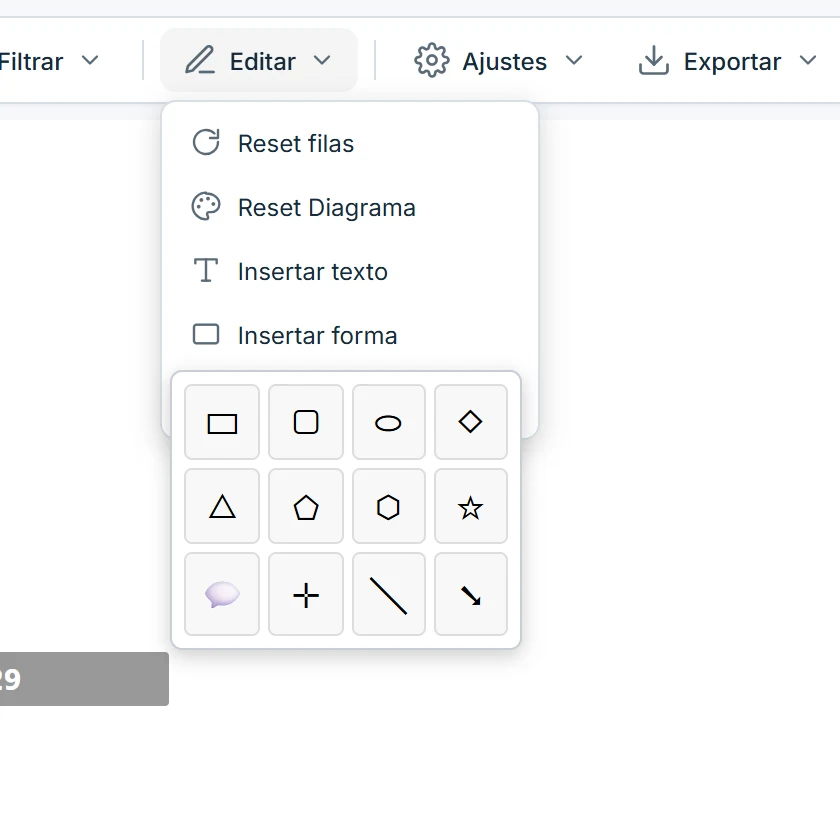
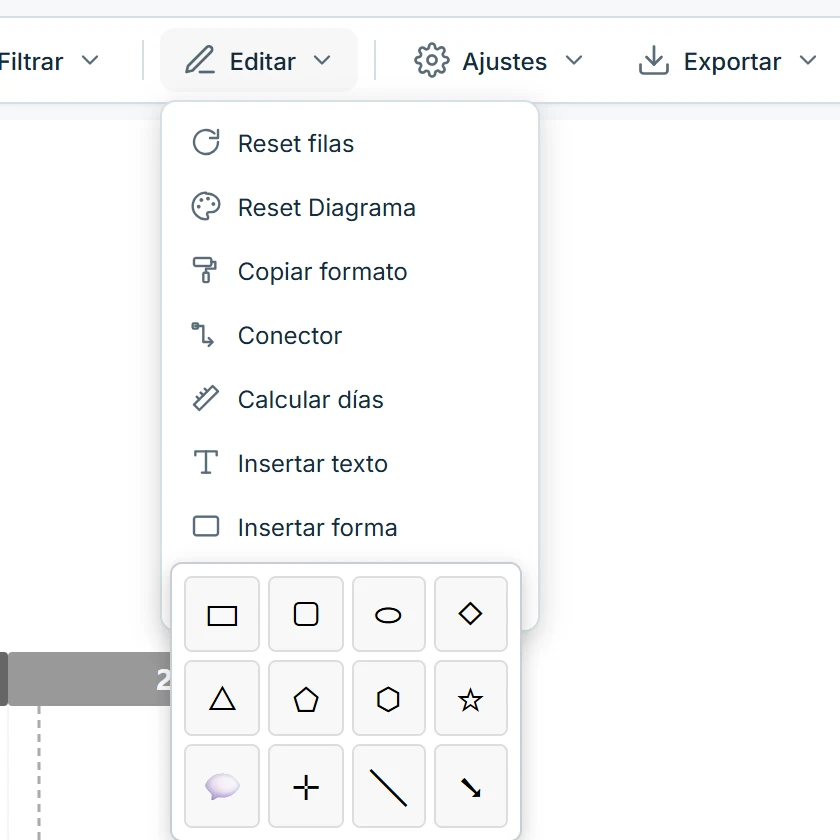
Manual de usuario actualizado: paneles, lados del borde, copiar formato en agrupadores, fila vacía, Calcular días, Ver demo; figuras regeneradas

diff --git a/docs/manual/index.html b/docs/manual/index.html
@@ -101,7 +101,8 @@
 
 <h2 id="primeros-pasos--abrir">Abrir OpenGanttLab</h2>
 <p>Abra el archivo <code>OpenGanttLab 3.1.html</code> en el navegador. Aparece una pantalla de bienvenida con los datos del autor y la licencia.</p>
-<figure class="fig" id="figura-03"><div class="imgbox"><img src="images/screenshots/fig-03-bienvenida.webp" width="640" height="600" alt="Pantalla de bienvenida" loading="lazy" decoding="async"></div><figcaption><span class="fn">Figura 03 — Pantalla de bienvenida</span><span class="fd">La primera pantalla al abrir la aplicación.</span><div class="observe"><b>Qué observar</b><ul><li>Pulse «Iniciar» para entrar.</li><li>Si abre un archivo compartido que ya trae datos, esta pantalla no aparece.</li></ul></div></figcaption></figure>
+<p>Si solo quiere explorar, pulse <span class="ui">Ver demo</span>: carga un cronograma de ejemplo con datos ficticios (una planta industrial, escenario «Proyecto A») para probar el Gantt, la Línea de Tiempo y el resto de las herramientas sin tener un archivo a mano. Si ya hay datos cargados, pide confirmación antes de reemplazarlos.</p>
+<figure class="fig" id="figura-03"><div class="imgbox"><img src="images/screenshots/fig-03-bienvenida.webp" width="640" height="600" alt="Pantalla de bienvenida" loading="lazy" decoding="async"></div><figcaption><span class="fn">Figura 03 — Pantalla de bienvenida</span><span class="fd">La primera pantalla al abrir la aplicación.</span><div class="observe"><b>Qué observar</b><ul><li>Pulse «Iniciar» para entrar o «Ver demo» para cargar un cronograma de ejemplo.</li><li>Si abre un archivo compartido que ya trae datos, esta pantalla no aparece.</li></ul></div></figcaption></figure>
 
 <h2 id="primeros-pasos--flujo">El flujo de trabajo</h2>
 <p>Casi todo el trabajo sigue el mismo recorrido de cinco etapas. Puede repetir cualquiera de ellas: al corregir un dato, las vistas se actualizan.</p>
@@ -300,7 +301,7 @@
 <figure class="fig" id="figura-22"><div class="imgbox"><img src="images/annotated/fig-22-tabla-datos.webp" width="1188" height="520" alt="Tabla de Datos" loading="lazy" decoding="async"></div><figcaption><span class="fn">Figura 22 — Tabla de Datos</span><span class="fd">La barra y las columnas de la Tabla de Datos.</span><ol class="legend"><li>Restaurar datos originales del XML, Deshacer y Rehacer</li><li>Cargar archivo y más opciones de carga</li><li>Descargar (Planilla, XLSX y XML modificado)</li><li>Agregar fila</li><li>Filtro por columna</li><li>Guardar sesión y Compartir</li><li>Pestañas: Tabla de Datos, Gestión de escenarios y Gestión de XML</li><li>Reprogramar sucesoras (interruptor)</li><li>Segmentador de escenario</li><li>Encabezados con botón de filtro</li></ol><div class="observe"><b>Qué observar</b><ul><li>Con un Excel vinculado aparecen además «Actualizar» y «Guardar cambios».</li><li>La columna «Duración (d)» está a la derecha de End R/P.</li></ul></div></figcaption></figure>
 <ul>
 <li><b>Editar:</b> haga clic en una celda y escriba. El Gantt y la Línea de Tiempo se actualizan al salir de la tabla, no en cada tecla.</li>
-<li><b>Agregar o eliminar filas:</b> <span class="ui">Agregar fila</span> al final; el ícono de papelera al final de cada fila la elimina.</li>
+<li><b>Agregar o eliminar filas:</b> <span class="ui">Agregar fila</span> al final; el ícono de papelera al final de cada fila la elimina. Con <b>clic derecho</b> sobre una fila, <span class="ui">Insertar fila vacía encima</span> crea una fila nueva justo antes de ella.</li>
 <li><b>Deshacer, rehacer y restaurar:</b> <span class="ui">Restaurar</span> vuelve a los datos originales del XML y descarta los cambios manuales (se puede deshacer).</li>
 <li><b>Ancho de columna:</b> arrastre el borde derecho del encabezado.</li>
 <li><b>Tablas grandes:</b> desde 250 filas solo se dibujan las visibles, así que sigue fluida con miles de tareas.</li>
@@ -470,9 +471,11 @@
 <li><b>Secciones plegables</b> (Texto, Fondo, Borde, Fechas, Dependencias…): cada una con su título y una flecha para abrirla o cerrarla.</li>
 <li><b>Filas «etiqueta — íconos de acción»:</b> la etiqueta a la izquierda y, a su lado, los controles como íconos. El tamaño de la letra y el grosor son campos numéricos con <b>flechas arriba y abajo</b>; la alineación y la posición del texto, botones de ícono (el seleccionado solo cambia de color); la trama y el estilo del borde o de la línea, listas desplegables con muestras; y el color, un recuadro con un ícono de restablecer. Donde conviene, dos controles comparten fila: <b>Color y Trama</b> en Fondo, <b>Color y Estilo</b> en Borde.</li>
 <li><b>Dos tamaños de texto:</b> los títulos de sección miden 12 px y todo lo demás (etiquetas de acción, subsecciones y controles) 10 px.</li>
+<li><b>Los demás paneles siguen el mismo esquema:</b> Hito y Evento (Texto, Fondo, Borde, <b>Línea</b>, Fechas y Dependencias, con las opciones propias del hito —Forma, Texto adicional, Ubicación y Distancia al eje— al final), Año, Forma, Cuadro de texto y Medida de tiempo. En todos, <b>Borde</b> pone primero <i>Color + Estilo</i> y debajo el <i>Grosor</i>, y el botón <b>Eliminar</b> es solo un ícono de papelera.</li>
+<li><b>Siempre visibles:</b> cada panel se reubica solo para no quedar cortado por el borde de la ventana; su alto se ajusta a su contenido. Elegir un color en el selector no cierra el panel.</li>
 <li><b>Texto:</b> el nombre a mostrar no se ve mientras no se pulsa el <b>lápiz</b> de la sección; al activarlo aparece el cuadro para editarlo. Debajo, <b>Fuente</b> (color, tamaño y K S N), <b>Alinear</b>, <b>Posición</b> y el interruptor <b>Texto completo</b>.</li>
 </ul>
-<figure class="fig" id="figura-42"><div class="imgbox"><img src="images/annotated/fig-42-ldt-panel-edicion.webp" width="751" height="623" alt="Panel de Tarea" loading="lazy" decoding="async"></div><figcaption><span class="fn">Figura 42 — Panel de Tarea</span><span class="fd">Todos los cambios del panel son visuales: nunca modifican la Tabla de Datos.</span><ol class="legend"><li>Barra seleccionada (doble clic)</li><li>Panel de Tarea</li></ol><div class="observe"><b>Qué observar</b><ul><li>Texto: nombre, color, tamaño, negrita, alineación y posición.</li><li>Fondo: color de la barra y trama.</li><li>Fechas: mostrar comienzo y fin, alinear y posición.</li><li>Posición: capa (arriba/abajo).</li></ul></div></figcaption></figure>
+<figure class="fig" id="figura-42"><div class="imgbox"><img src="images/annotated/fig-42-ldt-panel-edicion.webp" width="751" height="622" alt="Panel de Tarea" loading="lazy" decoding="async"></div><figcaption><span class="fn">Figura 42 — Panel de Tarea</span><span class="fd">Todos los cambios del panel son visuales: nunca modifican la Tabla de Datos.</span><ol class="legend"><li>Barra seleccionada (doble clic)</li><li>Panel de Tarea</li></ol><div class="observe"><b>Qué observar</b><ul><li>Texto: nombre, color, tamaño, negrita, alineación y posición.</li><li>Fondo: color de la barra y trama.</li><li>Fechas: mostrar comienzo y fin, alinear y posición.</li><li>Posición: capa (arriba/abajo).</li></ul></div></figcaption></figure>
 <div class="callout warn" role="note"><svg class="ic" viewBox="0 0 24 24" aria-hidden="true"><path d="M10.3 3.9 1.8 18a2 2 0 0 0 1.7 3h17a2 2 0 0 0 1.7-3L13.7 3.9a2 2 0 0 0-3.4 0z"/><path d="M12 9v4"/><path d="M12 17h.01"/></svg><div class="cb"><div class="ct">Lo visual no cambia los datos</div><p>Editar el texto o el color en la Línea de Tiempo solo afecta la presentación. El dato real de la tabla, del Gantt, del Excel y del XML no se toca. La única excepción es la sección <span class="ui">Dependencias</span> descrita abajo.</p></div></div>
 
 <h3 id="vistas--panel-dependencias">Dependencias desde el panel</h3>
@@ -486,6 +489,9 @@
 
 <h3 id="vistas--ocultar-precedencia">Ocultar una línea de precedencia</h3>
 <p>Con <span class="ui">Dependencias</span> encendido en la Línea de Tiempo, haga clic sobre una flecha: se resalta con un halo azul. Pulse <kbd>Delete</kbd> (o <kbd>Backspace</kbd>) para ocultarla; el resto de flechas no cambia. Para volver a verla, abra <span class="ui">Tareas ocultas (N)</span>, sección <b>Líneas de precedencia</b>, y restáurela con el ojo, o use <span class="ui">Restaurar todas</span>. Es solo visual: los vínculos siguen en los datos, el Gantt, el Excel y el XML, y el halo de selección no sale en los exportes. Con una barra seleccionada solo se dibuja su cadena azul y las demás flechas no se pueden seleccionar.</p>
+
+<h3 id="vistas--insertar-fila">Insertar una fila vacía encima</h3>
+<p>Con <b>clic derecho sobre una barra</b> (o un hito dentro de una banda) aparece <span class="ui">Insertar fila vacía encima</span>: la barra elegida y todas las de abajo bajan una fila y queda un espacio en blanco. Las barras desplazadas quedan fijadas en su nueva fila, como si las hubiera arrastrado; <kbd>Ctrl</kbd>+<kbd>Z</kbd> lo deshace y <span class="ui">Reset filas</span> del menú <span class="ui">Editar</span> devuelve el orden automático. En la Tabla de Datos, el clic derecho sobre una fila ofrece la misma opción y crea una fila nueva sin datos, con el mismo escenario.</p>
 
 <h2 id="vistas--ejecutivo">Ejecutivo: ocultar tareas</h2>
 <ol class="steps">
@@ -527,12 +533,12 @@
 </table></div>
 <p>Las secciones propias de cada elemento no aplican a los demás: la trama y las fechas de las tareas; la forma, el texto adicional, la línea y la distancia al eje de los hitos; la escala, el ancho y la unión en tramos de los años; el campo por el que agrupa, la posición y el espacio del agrupador horizontal; los campos y las entradas visibles de la leyenda.</p>
 <ul>
-<li><b>Borde:</b> grosor de 0 a 8 px (0 = sin borde), estilo (continua, punteada, rayada o mixta), color y <b>Restablecer</b>. En las bandas verticales, además, la <b>forma</b>: caja completa o solo línea inferior (para usarla como separador entre grupos).</li>
+<li><b>Borde:</b> <b>Lados</b> (todos, ninguno, o cualquier combinación de superior, derecho, inferior e izquierdo, como los bordes de una celda de Excel), grosor de 0 a 8 px (0 = sin borde), estilo (continua, punteada, rayada o mixta), color y <b>Restablecer</b> (vuelve a mostrar los cuatro lados). En las bandas verticales, además, la <b>forma</b>: caja completa o solo línea inferior (para usarla como separador entre grupos).</li>
 <li><b>Relleno:</b> en los agrupadores, «Sin relleno» o «Restablecer» devuelven el aspecto original.</li>
 <li><b>Alineación:</b> en las bandas verticales el nombre se pega abajo, al centro o arriba; en los demás, a la izquierda, al centro o a la derecha. El texto se abrevia si no cabe.</li>
 <li>Una barra con borde propio reemplaza al borde rojo de la ruta crítica. Cada banda tiene su propio formato y todo se guarda con la sesión.</li>
 </ul>
-<figure class="fig" id="figura-46"><div class="imgbox"><img src="images/screenshots/fig-46-agrupador-borde-menu.webp" width="321" height="519" alt="Menú de formato de un agrupador" loading="lazy" decoding="async"></div><figcaption><span class="fn">Figura 46 — Menú de formato de un agrupador</span><span class="fd">Clic derecho sobre la etiqueta de una banda.</span><div class="observe"><b>Qué observar</b><ul><li>Texto, Fuente, Relleno, Borde y Alineación, separados por divisores.</li><li>Forma: caja completa o solo línea inferior (bandas verticales).</li></ul></div></figcaption></figure>
+<figure class="fig" id="figura-46"><div class="imgbox"><img src="images/screenshots/fig-46-agrupador-borde-menu.webp" width="321" height="552" alt="Menú de formato de un agrupador" loading="lazy" decoding="async"></div><figcaption><span class="fn">Figura 46 — Menú de formato de un agrupador</span><span class="fd">Clic derecho sobre la etiqueta de una banda.</span><div class="observe"><b>Qué observar</b><ul><li>Texto, Fuente, Relleno, Borde y Alineación, separados por divisores.</li><li>Forma: caja completa o solo línea inferior (bandas verticales).</li></ul></div></figcaption></figure>
 
 <h2 id="vistas--agrupador-horizontal">Agrupador horizontal: subprocesos sobre los años</h2>
 <p>El <span class="ui">Agrupador horizontal</span> dibuja, encima de todo y bajo el título, un rectángulo por cada valor de la columna elegida. Cada rectángulo va del inicio de la primera tarea de ese valor al fin de la última, con el nombre centrado. Ocupa <b>una sola fila</b>: donde las fechas de dos valores se superponen, ese tramo común se pinta con la <b>mezcla de los colores</b> de ambos, y cada nombre se coloca en su tramo sin superposición (se abrevia si no cabe). Está pensado para mostrar las fases o subprocesos (por ejemplo «Subproceso B», «Subproceso C») sobre el tiempo. Su interruptor está junto al del Agrupador vertical en <span class="ui">Capas</span> → <b>Modo de vista</b>, y se usan a la vez.</p>
@@ -540,7 +546,7 @@
 <li><b>Agrupar por:</b> Categoría 1 (por defecto), Categoría 2 o Escenario, en el botón de opciones que aparece junto al interruptor.</li>
 <li><b>Posición:</b> <i>Encima de los hitos</i> (por defecto) o <i>Sobre la franja de años</i>, entre los hitos y los años: los hitos quedan arriba y sus líneas punteadas atraviesan las bandas hasta el eje.</li>
 <li><b>Color:</b> el selector de las opciones pinta todas las bandas; un <b>doble clic</b> sobre un rectángulo cambia solo el color de esa banda (el texto pasa a blanco con colores oscuros).</li>
-<li><b>Borde:</b> clic derecho sobre un rectángulo para dar grosor, estilo y color al contorno.</li>
+<li><b>Borde:</b> clic derecho sobre un rectángulo para elegir qué lados se muestran y dar grosor, estilo y color al contorno.</li>
 <li><b>Hitos por encima del agrupador:</b> con el agrupador encima de los hitos, un hito se puede arrastrar hacia arriba con el mouse (o subir con «Distancia al eje») y <b>pasa por encima de las bandas</b> sin agrandar el área; el área solo crece cuando llega al borde superior.</li>
 <li><b>Espacio hasta los años:</b> el espacio en blanco entre las bandas y la franja de años se ajusta solo (se reduce si no hay hitos encima del eje; en «Sobre la franja de años» queda en 6 px) y también a mano: arrastre el borde inferior de las bandas, o escriba los píxeles en el campo «Espacio» de las opciones. Se pueden pegar casi a los años (0 px). El botón «Auto» o un doble clic sobre el borde vuelven al automático.</li>
 </ul>
@@ -552,7 +558,7 @@
 
 <h2 id="vistas--tramos-anos">Franja de años: tramos</h2>
 <p>Un doble clic sobre un año abre su menú. Con <b>Unir hasta</b> se funden ese año y los siguientes en una sola banda de la franja (por ejemplo «2030 - 2033»), que conserva el color y la fuente del primer año. El campo <b>Texto</b> reemplaza la etiqueta. Para separar de nuevo, elija «(sin unir)». Los tramos se guardan con la sesión y con Compartir.</p>
-<figure class="fig" id="figura-50"><div class="imgbox"><img src="images/screenshots/fig-50-ldt-tramos-anos.webp" width="1025" height="822" alt="Tramo en la franja de años" loading="lazy" decoding="async"></div><figcaption><span class="fn">Figura 50 — Tramo en la franja de años</span><span class="fd">Doble clic sobre el primer año del tramo.</span><div class="observe"><b>Qué observar</b><ul><li>Los años 2027 y 2028 unidos en una sola banda.</li><li>El menú del año: Unir hasta, Texto, color, fuente, escala y ancho.</li></ul></div></figcaption></figure>
+<figure class="fig" id="figura-50"><div class="imgbox"><img src="images/screenshots/fig-50-ldt-tramos-anos.webp" width="1025" height="747" alt="Tramo en la franja de años" loading="lazy" decoding="async"></div><figcaption><span class="fn">Figura 50 — Tramo en la franja de años</span><span class="fd">Doble clic sobre el primer año del tramo.</span><div class="observe"><b>Qué observar</b><ul><li>Los años 2027 y 2028 unidos en una sola banda.</li><li>El menú del año: Unir hasta, Texto, color, fuente, escala y ancho.</li></ul></div></figcaption></figure>
 
 <h2 id="vistas--hitos-forma">Hitos: forma y texto adicional</h2>
 <p>El panel de edición de un hito (doble clic) incluye dos secciones:</p>
@@ -561,7 +567,7 @@
 <li><b>Forma:</b> rombo (por defecto), triángulo hacia abajo, triángulo hacia arriba, círculo, cuadrado o estrella. Solo cambia el dibujo; no cambia la fecha ni los datos.</li>
 <li><b>Texto adicional:</b> un texto libre de una o varias líneas bajo el hito (un monto, una reserva, una nota). Se <b>arrastra con el mouse</b> a cualquier posición y el botón «Restablecer posición» lo devuelve a su lugar. Es solo visual.</li>
 </ul>
-<figure class="fig" id="figura-51"><div class="imgbox"><img src="images/annotated/fig-51-hito-forma-texto.webp" width="456" height="1006" alt="Forma y texto adicional de un hito" loading="lazy" decoding="async"></div><figcaption><span class="fn">Figura 51 — Forma y texto adicional de un hito</span><span class="fd">Panel de edición de un hito.</span><ol class="legend"><li>Hito con forma de triángulo y su texto adicional</li><li>Panel de edición del hito</li></ol><div class="observe"><b>Qué observar</b><ul><li>Forma: rombo, triángulos, círculo, cuadrado o estrella.</li><li>Texto adicional: una o varias líneas que se arrastran con el mouse.</li></ul></div></figcaption></figure>
+<figure class="fig" id="figura-51"><div class="imgbox"><img src="images/annotated/fig-51-hito-forma-texto.webp" width="456" height="902" alt="Forma y texto adicional de un hito" loading="lazy" decoding="async"></div><figcaption><span class="fn">Figura 51 — Forma y texto adicional de un hito</span><span class="fd">Panel de edición de un hito.</span><ol class="legend"><li>Hito con forma de triángulo y su texto adicional</li><li>Panel de edición del hito</li></ol><div class="observe"><b>Qué observar</b><ul><li>Forma: rombo, triángulos, círculo, cuadrado o estrella.</li><li>Texto adicional: una o varias líneas que se arrastran con el mouse.</li></ul></div></figcaption></figure>
 
 <h2 id="vistas--dias-desplazados">Días desplazados entre escenarios en Vista Hitos</h2>
 <p>Con <span class="ui">Vista Hitos</span> y el Agrupador vertical por escenario, cada hito aparece en la banda de su escenario. El botón de opciones junto a <span class="ui">Vista Hitos</span> tiene la casilla <b>Días desplazados entre escenarios</b> (marcada por defecto): une con una línea punteada en escuadra el mismo hito de bandas consecutivas y escribe en el centro «+78 días» (rojo si el de abajo es posterior, verde si es anterior). El hito se empareja por Categoría 1, Categoría 2 y nombre; los hitos sin desplazamiento no llevan etiqueta. Con «Días transcurridos» activo, cada hito muestra «diast: N» arriba, la fecha bajo el rombo y el nombre a la derecha.</p>
@@ -576,31 +582,32 @@
 </ul>
 <figure class="fig" id="figura-53"><div class="imgbox"><img src="images/screenshots/fig-53-ldt-timeline-delta.webp" width="1069" height="501" alt="Timeline Delta" loading="lazy" decoding="async"></div><figcaption><span class="fn">Figura 53 — Timeline Delta</span><span class="fd">Hitos de dos escenarios comparados.</span><div class="observe"><b>Qué observar</b><ul><li>Selectores A y B con el color de cada escenario.</li><li>Una fila por hito con la flecha de desviación.</li><li>Columna Δ días a la derecha.</li></ul></div></figcaption></figure>
 
-<h2 id="vistas--impacto">Impacto: días de diferencia entre dos fechas</h2>
-<p>El botón <span class="ui">Impacto</span> (ícono de regla, a la derecha de los accesos rápidos de la barra) mide cuántos días separan dos barras u hitos y lo <b>dibuja</b> en el diagrama. Es la forma de calcular el efecto de una reprogramación entre dos escenarios.
+<h2 id="vistas--impacto">Calcular días: diferencia entre dos fechas</h2>
+<p><i>Antes llamada «Impacto».</i></p>
+<p>La opción <span class="ui">Calcular días</span> del menú <span class="ui">Editar</span> (ícono de regla) mide cuántos días separan dos barras u hitos y lo <b>dibuja</b> en el diagrama. Es la forma de calcular el efecto de una reprogramación entre dos escenarios.
 <ol class="steps">
-<li><b>Active Impacto</b>El cursor cambia y las barras dejan de abrir su panel de edición mientras la herramienta está activa.</li>
+<li><b>Active Calcular días</b>El cursor cambia y las barras dejan de abrir su panel de edición mientras la herramienta está activa.</li>
 <li><b>Haga clic en A y luego en B</b>Por ejemplo el mismo hito en el escenario original y en su copia. Quedan resaltados.</li>
 <li><b>Lea el resultado</b>Una tarjeta muestra las fechas de ambos y la diferencia en días calendario de fin y de inicio (B menos A): positivo si B es posterior. Use <span class="ui">Nueva medición</span> para elegir otro par, y <span class="ui">Cerrar</span> o <kbd>Esc</kbd> para salir.</li>
 <li><b>Elija las fechas y déjelo dibujado</b>La tarjeta pregunta <i>Dibujar entre [Comienzo/Fin] de A y [Comienzo/Fin] de B</i> (por defecto, fin con fin) y dibuja una <b>medida de tiempo</b> (ver abajo) con los días con signo. <span class="ui">Dejar en la lámina</span> la convierte en una medida permanente.</li>
 </ol>
-<figure class="fig" id="figura-54"><div class="imgbox"><img src="images/screenshots/fig-54-ldt-impacto.webp" width="1188" height="1236" alt="Impacto dibujado en la Línea de Tiempo" loading="lazy" decoding="async"></div><figcaption><span class="fn">Figura 54 — Impacto dibujado en la Línea de Tiempo</span><span class="fd">Medición entre dos barras.</span><div class="observe"><b>Qué observar</b><ul><li>Las dos barras elegidas, resaltadas.</li><li>Flecha doble con los días de diferencia, bajo la franja de años.</li><li>Tarjeta con las fechas, la diferencia y «Dejar en la lámina».</li></ul></div></figcaption></figure>
+<figure class="fig" id="figura-54"><div class="imgbox"><img src="images/screenshots/fig-54-ldt-impacto.webp" width="1188" height="1236" alt="Cálculo de días dibujado en la Línea de Tiempo" loading="lazy" decoding="async"></div><figcaption><span class="fn">Figura 54 — Cálculo de días dibujado en la Línea de Tiempo</span><span class="fd">Medición entre dos barras.</span><div class="observe"><b>Qué observar</b><ul><li>Las dos barras elegidas, resaltadas.</li><li>Flecha doble con los días de diferencia, bajo la franja de años.</li><li>Tarjeta con las fechas, la diferencia y «Dejar en la lámina».</li></ul></div></figcaption></figure>
 
 <h2 id="vistas--copiar-formato">Copiar formato</h2>
-<p>El botón <span class="ui">Copiar formato</span> (ícono de brocha, junto a Conector) toma el aspecto de un elemento y lo aplica a otros <b>del mismo tipo</b>: el formato de una tarea solo se aplica a tareas, el de un hito solo a hitos, el de un evento a eventos y el de un año a años.</p>
+<p>La opción <span class="ui">Copiar formato</span> del menú <span class="ui">Editar</span> (ícono de brocha) toma el aspecto de un elemento y lo aplica a otros <b>del mismo tipo</b>: el formato de una tarea solo se aplica a tareas, el de un hito solo a hitos, el de un evento a eventos, el de un año a años, el de una banda del <b>Agrupador horizontal</b> a otras bandas horizontales y el de una banda del <b>Agrupador vertical</b> a otras bandas verticales. Mientras la herramienta está activa, la opción y el botón <span class="ui">Editar</span> se ven resaltados.</p>
 <ol class="steps">
 <li><b>Elija el origen</b>Seleccione antes un elemento (un clic) y pulse el botón, o pulse el botón y haga clic en el elemento del que quiere copiar. Queda resaltado en verde.</li>
 <li><b>Aplique</b>Haga clic en cada elemento de destino: recibe el formato al instante. Si el destino es de otro tipo, la tarjeta lo avisa y no cambia nada. <span class="ui">Elegir otro origen</span> toma otro modelo.</li>
 <li><b>Salga</b><span class="ui">Cerrar</span> o <kbd>Esc</kbd>. <kbd>Ctrl</kbd>+<kbd>Z</kbd> deshace cada aplicación.</li>
 </ol>
 <ul>
-<li><b>Qué se copia:</b> colores, texto (tamaño, negrita, cursiva, subrayado, alineación), trama, borde, forma del hito, fechas visibles y línea del hito; en años, fondo, fuente y borde.</li>
+<li><b>Qué se copia:</b> colores, texto (tamaño, negrita, cursiva, subrayado, alineación), trama, borde, forma del hito, fechas visibles y línea del hito; en años, fondo, fuente y borde; en los agrupadores, texto, fuente, relleno y borde (incluidos los lados del borde), pero no el nombre de cada banda.</li>
 <li><b>Qué no se copia:</b> el nombre, el texto adicional, la posición o «Distancia al eje», la banda, ni las fechas: son propios de cada elemento.</li>
 </ul>
 <figure class="fig" id="figura-55"><div class="imgbox"><img src="images/screenshots/fig-55-ldt-copiar-formato.webp" width="1188" height="838" alt="Copiar formato" loading="lazy" decoding="async"></div><figcaption><span class="fn">Figura 55 — Copiar formato</span><span class="fd">Aplicar el formato de una tarea a otras tareas.</span><div class="observe"><b>Qué observar</b><ul><li>La barra de origen, resaltada en verde.</li><li>Tarjeta inferior con el origen y las instrucciones.</li></ul></div></figcaption></figure>
 
 <h2 id="vistas--conectores">Conectores y medidas de tiempo</h2>
-<p>El botón <span class="ui">Conector</span> (ícono de línea en escuadra, junto a Impacto) une dos barras, hitos o eventos <b>visibles</b>: haga clic en el origen y luego en el destino. La tarjeta inferior elige el tipo:</p>
+<p>La opción <span class="ui">Conector</span> del menú <span class="ui">Editar</span> (ícono de línea en escuadra) une dos barras, hitos o eventos <b>visibles</b>: haga clic en el origen y luego en el destino. La tarjeta inferior elige el tipo:</p>
 <div class="table-wrap"><table>
 <tr><th>Tipo</th><th>Qué dibuja</th></tr>
 <tr><td>Recta</td><td>Una línea directa entre los dos elementos.</td></tr>
@@ -617,7 +624,7 @@
 <li>Los conectores se guardan con la sesión y con Compartir; se ven en la exportación PNG/PDF/PPTX.</li>
 </ul>
 <figure class="fig" id="figura-58"><div class="imgbox"><img src="images/screenshots/fig-58-ldt-medida-tiempo.webp" width="1188" height="1046" alt="Medida de tiempo" loading="lazy" decoding="async"></div><figcaption><span class="fn">Figura 58 — Medida de tiempo</span><span class="fd">Del FID al arranque.</span><div class="observe"><b>Qué observar</b><ul><li>Flecha doble bajo la franja de años, con el texto centrado encima.</li><li>Guías punteadas hasta cada elemento.</li></ul></div></figcaption></figure>
-<figure class="fig" id="figura-59"><div class="imgbox"><img src="images/screenshots/fig-59-medida-menu.webp" width="256" height="411" alt="Menú de la medida de tiempo" loading="lazy" decoding="async"></div><figcaption><span class="fn">Figura 59 — Menú de la medida de tiempo</span><span class="fd">Doble clic o clic derecho sobre la flecha.</span><div class="observe"><b>Qué observar</b><ul><li>Texto, Formato, Desde/Hasta, Letra, Grosor, Estilo y Color.</li><li>Restablecer posición y Eliminar.</li></ul></div></figcaption></figure>
+<figure class="fig" id="figura-59"><div class="imgbox"><img src="images/screenshots/fig-59-medida-menu.webp" width="256" height="398" alt="Menú de la medida de tiempo" loading="lazy" decoding="async"></div><figcaption><span class="fn">Figura 59 — Menú de la medida de tiempo</span><span class="fd">Doble clic o clic derecho sobre la flecha.</span><div class="observe"><b>Qué observar</b><ul><li>Texto, Formato, Desde/Hasta, Letra, Grosor, Estilo y Color.</li><li>Restablecer posición y Eliminar.</li></ul></div></figcaption></figure>
 
 <h2 id="vistas--edicion">Edición: textos y formas libres</h2>
 <p>El menú <span class="ui">Editar</span> agrega elementos propios sobre el diagrama.</p>
@@ -627,11 +634,11 @@
 <li><b>Panel de forma:</b> relleno, borde y grosor; texto con tamaño, alineación y posición; y valores numéricos de ancho, alto, posición y giro.</li>
 <li><b>Imágenes e íconos:</b> <span class="ui">Insertar imagen o ícono</span> ofrece una biblioteca de 12 íconos (check, pozo, grupo de pozos, llama, alerta, información, cerrar, bandera, ubicación, dinero, tiempo y estrella) y «Subir una imagen…» (hasta 3 MB) desde el equipo. Se mueven, redimensionan y giran como cualquier forma.</li>
 </ul>
-<figure class="fig" id="figura-61"><div class="imgbox"><img src="images/screenshots/fig-61-iconos.webp" width="420" height="445" alt="Insertar imagen o ícono" loading="lazy" decoding="async"></div><figcaption><span class="fn">Figura 61 — Insertar imagen o ícono</span><span class="fd">Menú Editar → Insertar imagen o ícono.</span><div class="observe"><b>Qué observar</b><ul><li>Biblioteca de 12 íconos.</li><li>Subir una imagen desde el equipo.</li></ul></div></figcaption></figure>
+<figure class="fig" id="figura-61"><div class="imgbox"><img src="images/screenshots/fig-61-iconos.webp" width="420" height="541" alt="Insertar imagen o ícono" loading="lazy" decoding="async"></div><figcaption><span class="fn">Figura 61 — Insertar imagen o ícono</span><span class="fd">Menú Editar → Insertar imagen o ícono.</span><div class="observe"><b>Qué observar</b><ul><li>Biblioteca de 12 íconos.</li><li>Subir una imagen desde el equipo.</li></ul></div></figcaption></figure>
 
 <h3 id="vistas--leyenda-ldt">Configurar la leyenda</h3>
 <p>Con <span class="ui">Leyenda</span> activa, el botón de opciones de su interruptor permite elegir por qué campo mostrarla (Categoría 2, Categoría 1 o Escenario), el <b>estilo</b> (muestra de color con texto, o etiqueta de color con el texto dentro), el tamaño de letra, el recuadro de fondo, un <b>título</b> propio con tamaño y color, y qué entradas se ven. La leyenda se arrastra para moverla.</p>
-<figure class="fig" id="figura-62"><div class="imgbox"><img src="images/screenshots/fig-62-leyenda-config.webp" width="564" height="825" alt="Configuración de la leyenda" loading="lazy" decoding="async"></div><figcaption><span class="fn">Figura 62 — Configuración de la leyenda</span><span class="fd">Panel del botón de opciones de la Leyenda.</span><div class="observe"><b>Qué observar</b><ul><li>Campo, estilo, tamaño de letra, recuadro y título.</li><li>Entradas visibles.</li></ul></div></figcaption></figure>
+<figure class="fig" id="figura-62"><div class="imgbox"><img src="images/screenshots/fig-62-leyenda-config.webp" width="564" height="829" alt="Configuración de la leyenda" loading="lazy" decoding="async"></div><figcaption><span class="fn">Figura 62 — Configuración de la leyenda</span><span class="fd">Panel del botón de opciones de la Leyenda.</span><div class="observe"><b>Qué observar</b><ul><li>Campo, estilo, tamaño de letra, recuadro y título.</li><li>Entradas visibles.</li></ul></div></figcaption></figure>
 
 <h2 id="vistas--dependencias-ldt">Dependencias en la Línea de Tiempo</h2>
 <p>Active <span class="ui">Dependencias</span> en <span class="ui">Capas</span> → <span class="ui">Contenido</span>. Usa los mismos datos, tipos y colores que el Gantt.</p>
@@ -926,7 +933,7 @@
 
 <h2 id="avanzadas--hito-banda">Ubicación de un hito en el Agrupador vertical</h2>
 <p>En el panel de edición de un hito, la opción <b>Ubicación</b> permite colocarlo dentro de una banda del Agrupador (con un selector de banda). Requiere el <span class="ui">Agrupador</span> activo y no funciona en Ejecutivo. Por defecto, el hito sigue sobre el eje. Con <span class="ui">Vista Hitos</span> activa junto al Agrupador, todos los hitos van dentro de la banda de su grupo (o la que tengan asignada).</p>
-<figure class="fig" id="figura-84"><div class="imgbox"><img src="images/screenshots/fig-84-ldt-hito-ubicacion.webp" width="348" height="895" alt="Ubicación de un hito" loading="lazy" decoding="async"></div><figcaption><span class="fn">Figura 84 — Ubicación de un hito</span><span class="fd">Panel de edición de un hito con el Agrupador.</span><div class="observe"><b>Qué observar</b><ul><li>Sección «Ubicación» del panel de edición de un hito.</li><li>Requiere el Agrupador activo; no funciona en Ejecutivo.</li></ul></div></figcaption></figure>
+<figure class="fig" id="figura-84"><div class="imgbox"><img src="images/screenshots/fig-84-ldt-hito-ubicacion.webp" width="348" height="824" alt="Ubicación de un hito" loading="lazy" decoding="async"></div><figcaption><span class="fn">Figura 84 — Ubicación de un hito</span><span class="fd">Panel de edición de un hito con el Agrupador.</span><div class="observe"><b>Qué observar</b><ul><li>Sección «Ubicación» del panel de edición de un hito.</li><li>Requiere el Agrupador activo; no funciona en Ejecutivo.</li></ul></div></figcaption></figure>
 </article>
 
 <article data-slug="casos-de-uso" id="casos-de-uso" hidden aria-labelledby="casos-de-uso--h1"><p class="kicker">Capítulo 12 · Consultar</p><h1 id="casos-de-uso--h1">Casos de uso</h1><p class="lead">Tres situaciones típicas resueltas de principio a fin. Todas usan el proyecto de ejemplo del manual (una planta industrial ficticia).</p>

diff --git a/docs/manual/content/06-vistas.html b/docs/manual/content/06-vistas.html
@@ -58,6 +58,8 @@
 <li><b>Secciones plegables</b> (Texto, Fondo, Borde, Fechas, Dependencias…): cada una con su título y una flecha para abrirla o cerrarla.</li>
 <li><b>Filas «etiqueta — íconos de acción»:</b> la etiqueta a la izquierda y, a su lado, los controles como íconos. El tamaño de la letra y el grosor son campos numéricos con <b>flechas arriba y abajo</b>; la alineación y la posición del texto, botones de ícono (el seleccionado solo cambia de color); la trama y el estilo del borde o de la línea, listas desplegables con muestras; y el color, un recuadro con un ícono de restablecer. Donde conviene, dos controles comparten fila: <b>Color y Trama</b> en Fondo, <b>Color y Estilo</b> en Borde.</li>
 <li><b>Dos tamaños de texto:</b> los títulos de sección miden 12 px y todo lo demás (etiquetas de acción, subsecciones y controles) 10 px.</li>
+<li><b>Los demás paneles siguen el mismo esquema:</b> Hito y Evento (Texto, Fondo, Borde, <b>Línea</b>, Fechas y Dependencias, con las opciones propias del hito —Forma, Texto adicional, Ubicación y Distancia al eje— al final), Año, Forma, Cuadro de texto y Medida de tiempo. En todos, <b>Borde</b> pone primero <i>Color + Estilo</i> y debajo el <i>Grosor</i>, y el botón <b>Eliminar</b> es solo un ícono de papelera.</li>
+<li><b>Siempre visibles:</b> cada panel se reubica solo para no quedar cortado por el borde de la ventana; su alto se ajusta a su contenido. Elegir un color en el selector no cierra el panel.</li>
 <li><b>Texto:</b> el nombre a mostrar no se ve mientras no se pulsa el <b>lápiz</b> de la sección; al activarlo aparece el cuadro para editarlo. Debajo, <b>Fuente</b> (color, tamaño y K S N), <b>Alinear</b>, <b>Posición</b> y el interruptor <b>Texto completo</b>.</li>
 </ul>
 <fig slug="ldt-panel-edicion" t="Panel de Tarea" legend="Barra seleccionada (doble clic)|Panel de Tarea" observe="Texto: nombre, color, tamaño, negrita, alineación y posición.|Fondo: color de la barra y trama.|Fechas: mostrar comienzo y fin, alinear y posición.|Posición: capa (arriba/abajo).">Todos los cambios del panel son visuales: nunca modifican la Tabla de Datos.</fig>
@@ -76,6 +78,9 @@
 
 <h3 id="ocultar-precedencia">Ocultar una línea de precedencia</h3>
 <p>Con <ui>Dependencias</ui> encendido en la Línea de Tiempo, haga clic sobre una flecha: se resalta con un halo azul. Pulse <kbd>Delete</kbd> (o <kbd>Backspace</kbd>) para ocultarla; el resto de flechas no cambia. Para volver a verla, abra <ui>Tareas ocultas (N)</ui>, sección <b>Líneas de precedencia</b>, y restáurela con el ojo, o use <ui>Restaurar todas</ui>. Es solo visual: los vínculos siguen en los datos, el Gantt, el Excel y el XML, y el halo de selección no sale en los exportes. Con una barra seleccionada solo se dibuja su cadena azul y las demás flechas no se pueden seleccionar.</p>
+
+<h3 id="insertar-fila">Insertar una fila vacía encima</h3>
+<p>Con <b>clic derecho sobre una barra</b> (o un hito dentro de una banda) aparece <ui>Insertar fila vacía encima</ui>: la barra elegida y todas las de abajo bajan una fila y queda un espacio en blanco. Las barras desplazadas quedan fijadas en su nueva fila, como si las hubiera arrastrado; <kbd>Ctrl</kbd>+<kbd>Z</kbd> lo deshace y <ui>Reset filas</ui> del menú <ui>Editar</ui> devuelve el orden automático. En la Tabla de Datos, el clic derecho sobre una fila ofrece la misma opción y crea una fila nueva sin datos, con el mismo escenario.</p>
 
 <h2 id="ejecutivo">Ejecutivo: ocultar tareas</h2>
 <ol class="steps">
@@ -119,7 +124,7 @@
 </table>
 <p>Las secciones propias de cada elemento no aplican a los demás: la trama y las fechas de las tareas; la forma, el texto adicional, la línea y la distancia al eje de los hitos; la escala, el ancho y la unión en tramos de los años; el campo por el que agrupa, la posición y el espacio del agrupador horizontal; los campos y las entradas visibles de la leyenda.</p>
 <ul>
-<li><b>Borde:</b> grosor de 0 a 8 px (0 = sin borde), estilo (continua, punteada, rayada o mixta), color y <b>Restablecer</b>. En las bandas verticales, además, la <b>forma</b>: caja completa o solo línea inferior (para usarla como separador entre grupos).</li>
+<li><b>Borde:</b> <b>Lados</b> (todos, ninguno, o cualquier combinación de superior, derecho, inferior e izquierdo, como los bordes de una celda de Excel), grosor de 0 a 8 px (0 = sin borde), estilo (continua, punteada, rayada o mixta), color y <b>Restablecer</b> (vuelve a mostrar los cuatro lados). En las bandas verticales, además, la <b>forma</b>: caja completa o solo línea inferior (para usarla como separador entre grupos).</li>
 <li><b>Relleno:</b> en los agrupadores, «Sin relleno» o «Restablecer» devuelven el aspecto original.</li>
 <li><b>Alineación:</b> en las bandas verticales el nombre se pega abajo, al centro o arriba; en los demás, a la izquierda, al centro o a la derecha. El texto se abrevia si no cabe.</li>
 <li>Una barra con borde propio reemplaza al borde rojo de la ruta crítica. Cada banda tiene su propio formato y todo se guarda con la sesión.</li>
@@ -132,7 +137,7 @@
 <li><b>Agrupar por:</b> Categoría 1 (por defecto), Categoría 2 o Escenario, en el botón de opciones que aparece junto al interruptor.</li>
 <li><b>Posición:</b> <i>Encima de los hitos</i> (por defecto) o <i>Sobre la franja de años</i>, entre los hitos y los años: los hitos quedan arriba y sus líneas punteadas atraviesan las bandas hasta el eje.</li>
 <li><b>Color:</b> el selector de las opciones pinta todas las bandas; un <b>doble clic</b> sobre un rectángulo cambia solo el color de esa banda (el texto pasa a blanco con colores oscuros).</li>
-<li><b>Borde:</b> clic derecho sobre un rectángulo para dar grosor, estilo y color al contorno.</li>
+<li><b>Borde:</b> clic derecho sobre un rectángulo para elegir qué lados se muestran y dar grosor, estilo y color al contorno.</li>
 <li><b>Hitos por encima del agrupador:</b> con el agrupador encima de los hitos, un hito se puede arrastrar hacia arriba con el mouse (o subir con «Distancia al eje») y <b>pasa por encima de las bandas</b> sin agrandar el área; el área solo crece cuando llega al borde superior.</li>
 <li><b>Espacio hasta los años:</b> el espacio en blanco entre las bandas y la franja de años se ajusta solo (se reduce si no hay hitos encima del eje; en «Sobre la franja de años» queda en 6 px) y también a mano: arrastre el borde inferior de las bandas, o escriba los píxeles en el campo «Espacio» de las opciones. Se pueden pegar casi a los años (0 px). El botón «Auto» o un doble clic sobre el borde vuelven al automático.</li>
 </ul>
@@ -169,6 +174,7 @@
 <fig slug="ldt-timeline-delta" t="Timeline Delta" observe="Selectores A y B con el color de cada escenario.|Una fila por hito con la flecha de desviación.|Columna Δ días a la derecha.">Hitos de dos escenarios comparados.</fig>
 
 <h2 id="impacto">Calcular días: diferencia entre dos fechas</h2>
+<p><i>Antes llamada «Impacto».</i></p>
 <p>La opción <ui>Calcular días</ui> del menú <ui>Editar</ui> (ícono de regla) mide cuántos días separan dos barras u hitos y lo <b>dibuja</b> en el diagrama. Es la forma de calcular el efecto de una reprogramación entre dos escenarios.
 <ol class="steps">
 <li><b>Active Calcular días</b>El cursor cambia y las barras dejan de abrir su panel de edición mientras la herramienta está activa.</li>
@@ -179,14 +185,14 @@
 <fig slug="ldt-impacto" t="Cálculo de días dibujado en la Línea de Tiempo" observe="Las dos barras elegidas, resaltadas.|Flecha doble con los días de diferencia, bajo la franja de años.|Tarjeta con las fechas, la diferencia y «Dejar en la lámina».">Medición entre dos barras.</fig>
 
 <h2 id="copiar-formato">Copiar formato</h2>
-<p>El botón <ui>Copiar formato</ui> (ícono de brocha, junto a Conector) toma el aspecto de un elemento y lo aplica a otros <b>del mismo tipo</b>: el formato de una tarea solo se aplica a tareas, el de un hito solo a hitos, el de un evento a eventos y el de un año a años.</p>
+<p>La opción <ui>Copiar formato</ui> del menú <ui>Editar</ui> (ícono de brocha) toma el aspecto de un elemento y lo aplica a otros <b>del mismo tipo</b>: el formato de una tarea solo se aplica a tareas, el de un hito solo a hitos, el de un evento a eventos, el de un año a años, el de una banda del <b>Agrupador horizontal</b> a otras bandas horizontales y el de una banda del <b>Agrupador vertical</b> a otras bandas verticales. Mientras la herramienta está activa, la opción y el botón <ui>Editar</ui> se ven resaltados.</p>
 <ol class="steps">
 <li><b>Elija el origen</b>Seleccione antes un elemento (un clic) y pulse el botón, o pulse el botón y haga clic en el elemento del que quiere copiar. Queda resaltado en verde.</li>
 <li><b>Aplique</b>Haga clic en cada elemento de destino: recibe el formato al instante. Si el destino es de otro tipo, la tarjeta lo avisa y no cambia nada. <ui>Elegir otro origen</ui> toma otro modelo.</li>
 <li><b>Salga</b><ui>Cerrar</ui> o <kbd>Esc</kbd>. <kbd>Ctrl</kbd>+<kbd>Z</kbd> deshace cada aplicación.</li>
 </ol>
 <ul>
-<li><b>Qué se copia:</b> colores, texto (tamaño, negrita, cursiva, subrayado, alineación), trama, borde, forma del hito, fechas visibles y línea del hito; en años, fondo, fuente y borde.</li>
+<li><b>Qué se copia:</b> colores, texto (tamaño, negrita, cursiva, subrayado, alineación), trama, borde, forma del hito, fechas visibles y línea del hito; en años, fondo, fuente y borde; en los agrupadores, texto, fuente, relleno y borde (incluidos los lados del borde), pero no el nombre de cada banda.</li>
 <li><b>Qué no se copia:</b> el nombre, el texto adicional, la posición o «Distancia al eje», la banda, ni las fechas: son propios de cada elemento.</li>
 </ul>
 <fig slug="ldt-copiar-formato" t="Copiar formato" observe="La barra de origen, resaltada en verde.|Tarjeta inferior con el origen y las instrucciones.">Aplicar el formato de una tarea a otras tareas.</fig>

diff --git a/docs/manual/content/04-datos.html b/docs/manual/content/04-datos.html
@@ -116,7 +116,7 @@
 <fig slug="tabla-datos" t="Tabla de Datos" legend="Restaurar datos originales del XML, Deshacer y Rehacer|Cargar archivo y más opciones de carga|Descargar (Planilla, XLSX y XML modificado)|Agregar fila|Filtro por columna|Guardar sesión y Compartir|Pestañas: Tabla de Datos, Gestión de escenarios y Gestión de XML|Reprogramar sucesoras (interruptor)|Segmentador de escenario|Encabezados con botón de filtro" observe="Con un Excel vinculado aparecen además «Actualizar» y «Guardar cambios».|La columna «Duración (d)» está a la derecha de End R/P.">La barra y las columnas de la Tabla de Datos.</fig>
 <ul>
 <li><b>Editar:</b> haga clic en una celda y escriba. El Gantt y la Línea de Tiempo se actualizan al salir de la tabla, no en cada tecla.</li>
-<li><b>Agregar o eliminar filas:</b> <ui>Agregar fila</ui> al final; el ícono de papelera al final de cada fila la elimina.</li>
+<li><b>Agregar o eliminar filas:</b> <ui>Agregar fila</ui> al final; el ícono de papelera al final de cada fila la elimina. Con <b>clic derecho</b> sobre una fila, <ui>Insertar fila vacía encima</ui> crea una fila nueva justo antes de ella.</li>
 <li><b>Deshacer, rehacer y restaurar:</b> <ui>Restaurar</ui> vuelve a los datos originales del XML y descarta los cambios manuales (se puede deshacer).</li>
 <li><b>Ancho de columna:</b> arrastre el borde derecho del encabezado.</li>
 <li><b>Tablas grandes:</b> desde 250 filas solo se dibujan las visibles, así que sigue fluida con miles de tareas.</li>

diff --git a/docs/manual/content/02-primeros-pasos.html b/docs/manual/content/02-primeros-pasos.html
@@ -17,7 +17,8 @@
 
 <h2 id="abrir">Abrir OpenGanttLab</h2>
 <p>Abra el archivo <code>OpenGanttLab 3.1.html</code> en el navegador. Aparece una pantalla de bienvenida con los datos del autor y la licencia.</p>
-<fig slug="bienvenida" t="Pantalla de bienvenida" observe="Pulse «Iniciar» para entrar.|Si abre un archivo compartido que ya trae datos, esta pantalla no aparece.">La primera pantalla al abrir la aplicación.</fig>
+<p>Si solo quiere explorar, pulse <ui>Ver demo</ui>: carga un cronograma de ejemplo con datos ficticios (una planta industrial, escenario «Proyecto A») para probar el Gantt, la Línea de Tiempo y el resto de las herramientas sin tener un archivo a mano. Si ya hay datos cargados, pide confirmación antes de reemplazarlos.</p>
+<fig slug="bienvenida" t="Pantalla de bienvenida" observe="Pulse «Iniciar» para entrar o «Ver demo» para cargar un cronograma de ejemplo.|Si abre un archivo compartido que ya trae datos, esta pantalla no aparece.">La primera pantalla al abrir la aplicación.</fig>
 
 <h2 id="flujo">El flujo de trabajo</h2>
 <p>Casi todo el trabajo sigue el mismo recorrido de cinco etapas. Puede repetir cualquiera de ellas: al corregir un dato, las vistas se actualizan.</p>
